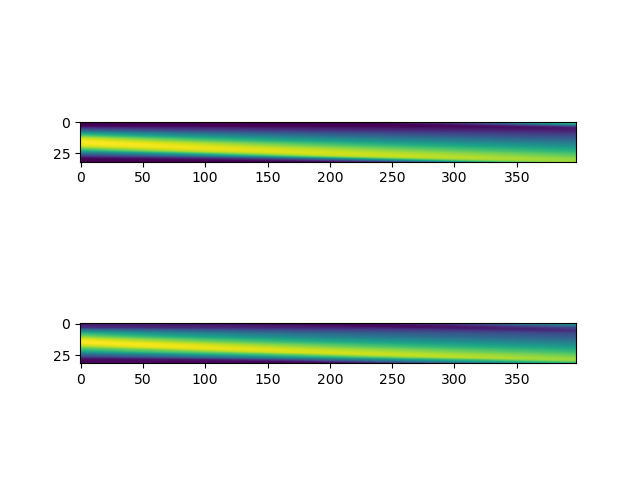
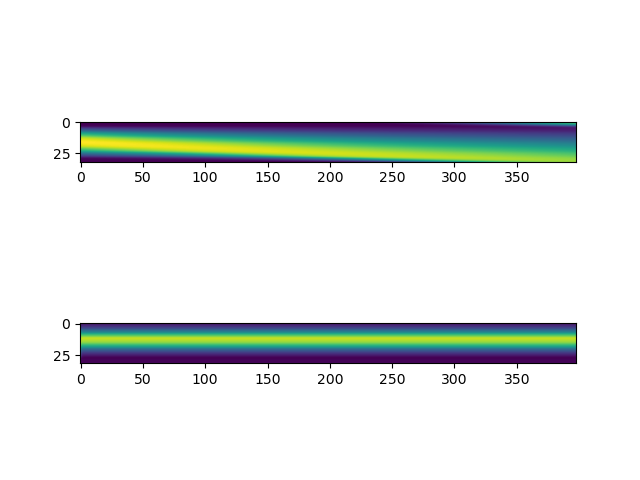
Testing prediction on ROM (first test)

Changed region(s): [[0.125, 0.6562, 0.9062, 0.7812]]

diff --git a/vae_load.py b/vae_load.py
@@ -92,10 +92,18 @@ for trial in trials:
         U = u
     rom_data_loader, _ = load_data_rom(zmu, zlogvar, tau, ntrain*n_ic-tau, shuff=False)
     for n, (muzkT, lvzkT, muz, lvz) in enumerate(rom_data_loader):
+        muz_F = torch.zeros(np.shape(muz))
+        lvz_F = torch.zeros(np.shape(lvz))
         muzkT = muzkT.float()
         lvzkT = lvzkT.float()
         z_rom = ROM._reparameterize(muzkT, lvzkT)
-        muz_F, lvz_F = ROM.forward(z_rom)
+        muz_F[0,:], _ = ROM.forward(muzkT[0,:,:].view((-1,tau,n_latent)))
+        inp = muzkT[0,:,:].view((1,tau,n_latent))
+        for R in range(np.shape(muz)[0]-1):
+            inp = torch.cat((muz_F[R,:].view((1,1,n_latent)), inp[0,1:,:].view(1,tau-1,n_latent)), dim=1)
+            print('inp shape: ', np.shape(inp))
+            muz_F[R+1,:], _ = ROM.forward(inp)
+        #muz_F, lvz_F = ROM.forward(z_rom)
     plt.figure(1000)
     plt.subplot(2,1,1)
     plt.imshow(np.transpose(muz.detach().numpy()))
